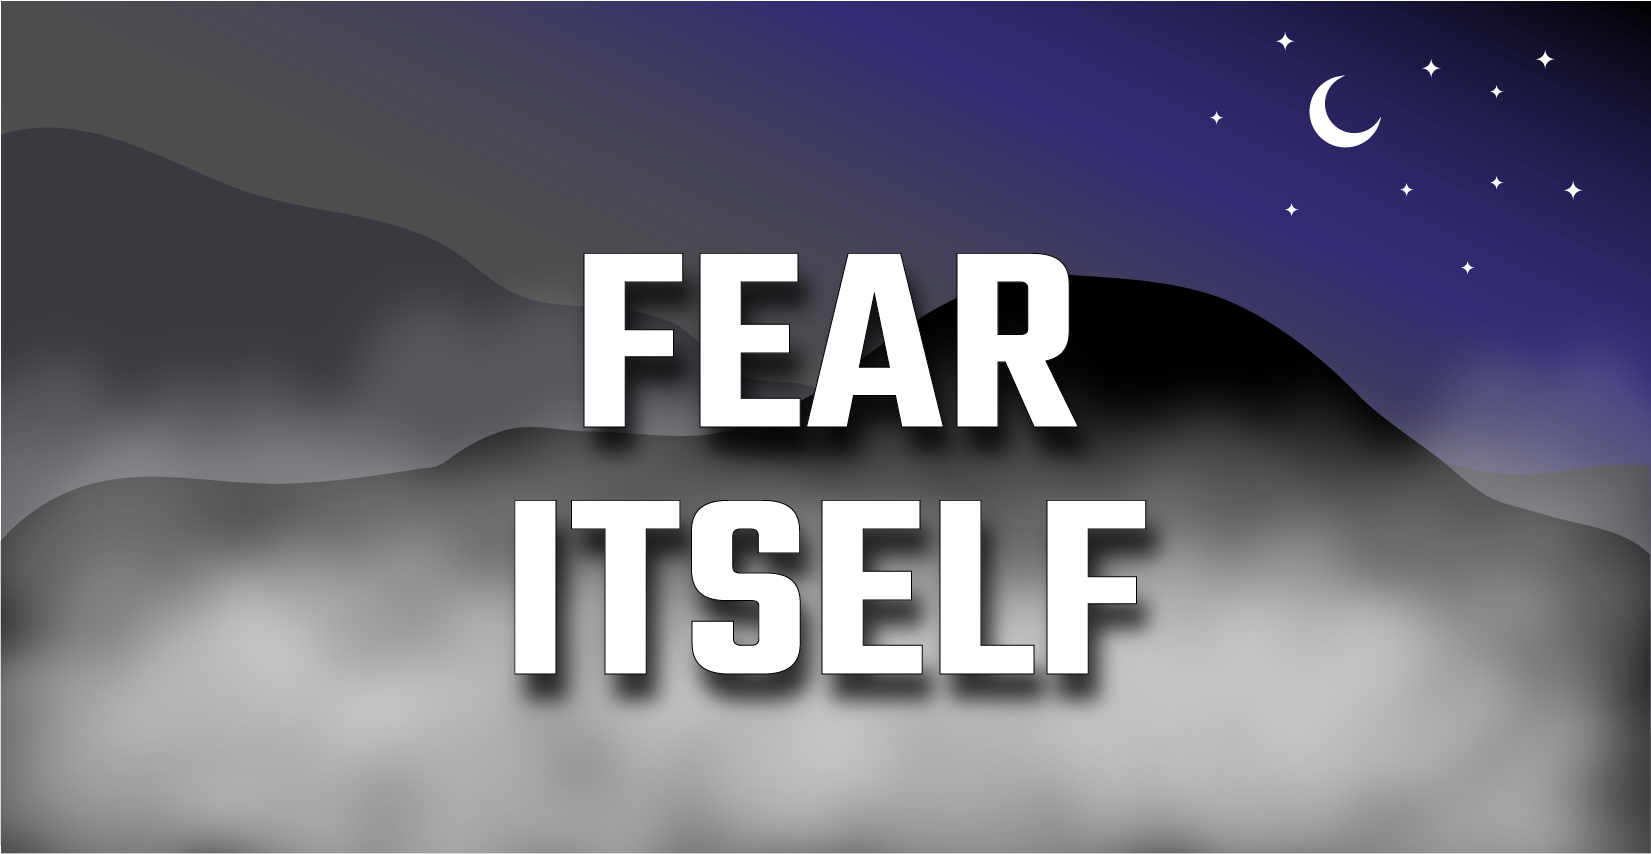
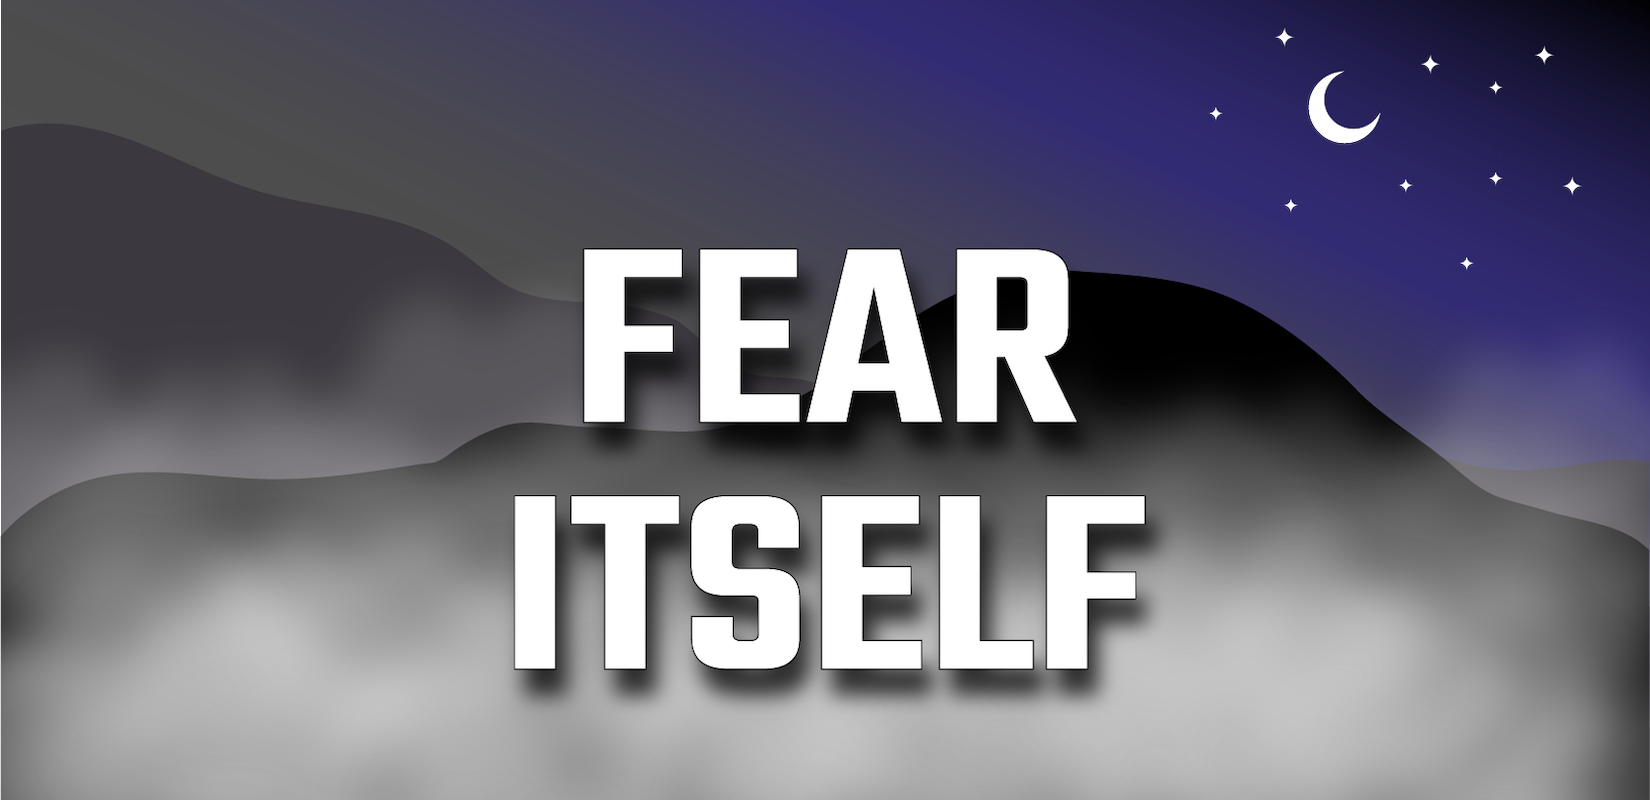
Added videos
Preview demos uploaded to Vimeo
Vimeo videos embedded in code section
Added titles and descriptions for videos
Adjusted size for banner

diff --git a/index.html b/index.html
@@ -40,7 +40,6 @@
         <button type="download" class="downloadButton">
           <a href="https://github.com/EdwinS27/Phobia-Third-Person" target="new"><img src="images/download.png"></a>
         </button>
-
       </div>
 
       <!--- ==================================== LEVELS SECTION ==================================== --->
@@ -93,21 +92,21 @@
       <table align="center">
         <tr>
           <td class="recordingText">
-            <h3>Level 01 Walkthrough</h3>
-            <p>Pretend this is level 1, Lorem ipsum dolor sit amet, consectetur adipiscing elit, sed do eiusmod tempor incididunt ut labore et dolore magna aliqua. Ut enim ad minim veniam, laboris nisi ut aliquip ex ea commodo consequat. Duis aute irure dolor in reprehenderit in voluptate velit esse cillum dolore eu fugiat nulla pariatur.</p>
+            <h3>Level 01 - Nyctophobia Preview</h3>
+            <p>In this demo of level 1, the main character explores the house as they try to find the corresponding doorkeys to escape. This preview shows the controls implemented throughout the game to guide the player. The monsters placed in the house also have the capability to reduce the player's courage meter, decreasing their courage as the player gets close.</p>
           </td>
           <td class="recording">
-            <iframe src="https://player.vimeo.com/video/535897653?title=0&amp;byline=0&amp;portrait=0&amp;speed=0&amp;badge=0&amp;autopause=0&amp;player_id=0&amp;app_id=58479" width="575" height="350" frameborder="0" allow="autoplay; fullscreen; picture-in-picture" allowfullscreen title="Fear Itself - Level02_test"></iframe>
+            <iframe src="https://player.vimeo.com/video/537050777?title=0&amp;byline=0&amp;portrait=0&amp;speed=0&amp;badge=0&amp;autopause=0&amp;player_id=0&amp;app_id=58479" width="575" height="350" frameborder="0" allow="autoplay; fullscreen; picture-in-picture" allowfullscreen title="Fear Itself_Level01"></iframe>
           </td>
         </tr>
         <tr><td><br></td><td><br></td></tr>
         <tr>
           <td class="recordingText">
-            <h3>Level 02 Walkthrough</h3>
-            <p>In this level 2 preview, Lorem ipsum dolor sit amet, sed do eiusmod tempor incididunt ut labore et dolore magna aliqua. Ut enim ad minim veniam, quis nostrud exercitation ullamco laboris nisi ut aliquip ex ea commodo consequat. Duis aute irure dolor in reprehenderit in voluptate velit esse cillum dolore eu fugiat nulla pariatur.</p>
+            <h3>Level 02 - Claustrophobia Preview</h3>
+            <p>In this level 2 preview, the main character is now tasked with escaping a labyrinth with fog clouding their view. The pathways are very narrow, and one wrong turn, the player will encounter monsters that again decreases their courage. The player must move wisely and swiftly before the arms reach out from the walls and attack. </p>
           </td>
           <td class="recording" style="padding-top:25px;">
-            <iframe src="https://player.vimeo.com/video/535897653?title=0&amp;byline=0&amp;portrait=0&amp;speed=0&amp;badge=0&amp;autopause=0&amp;player_id=0&amp;app_id=58479" width="575" height="350" frameborder="0" allow="autoplay; fullscreen; picture-in-picture" allowfullscreen title="Fear Itself - Level02_test"></iframe>
+            <iframe src="https://player.vimeo.com/video/537051064?title=0&amp;byline=0&amp;portrait=0&amp;speed=0&amp;badge=0&amp;autopause=0&amp;player_id=0&amp;app_id=58479" width="575" height="350" frameborder="0" allow="autoplay; fullscreen; picture-in-picture" allowfullscreen title="Fear Itself_Level02"></iframe>
           </td>
         </tr>
       </table>
